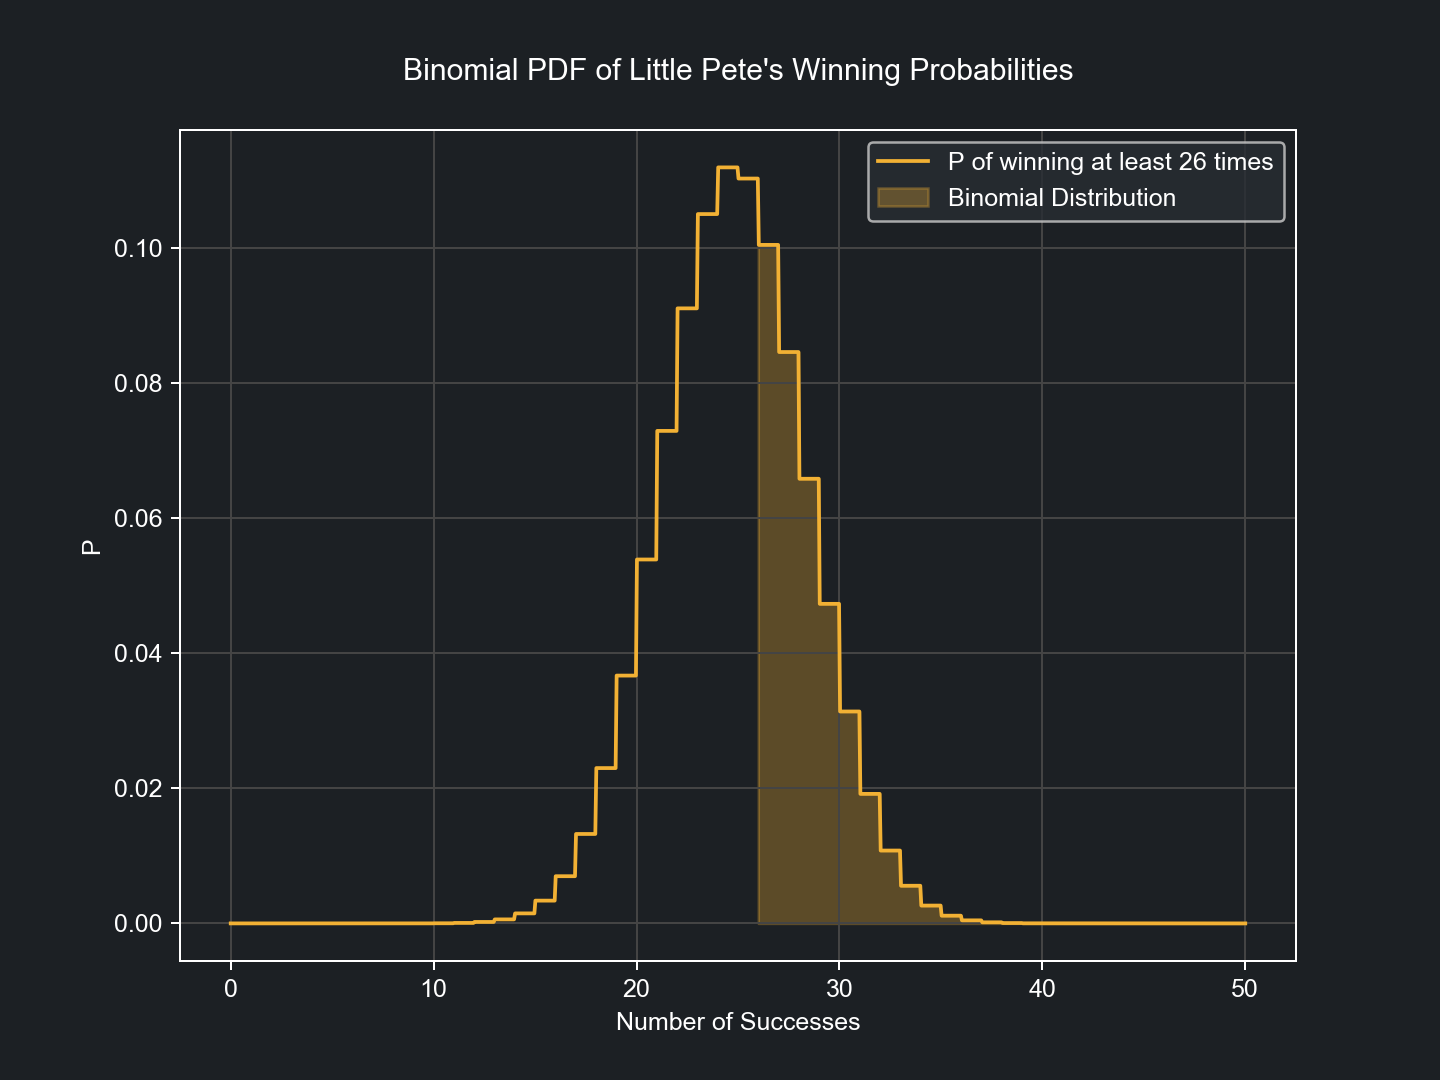
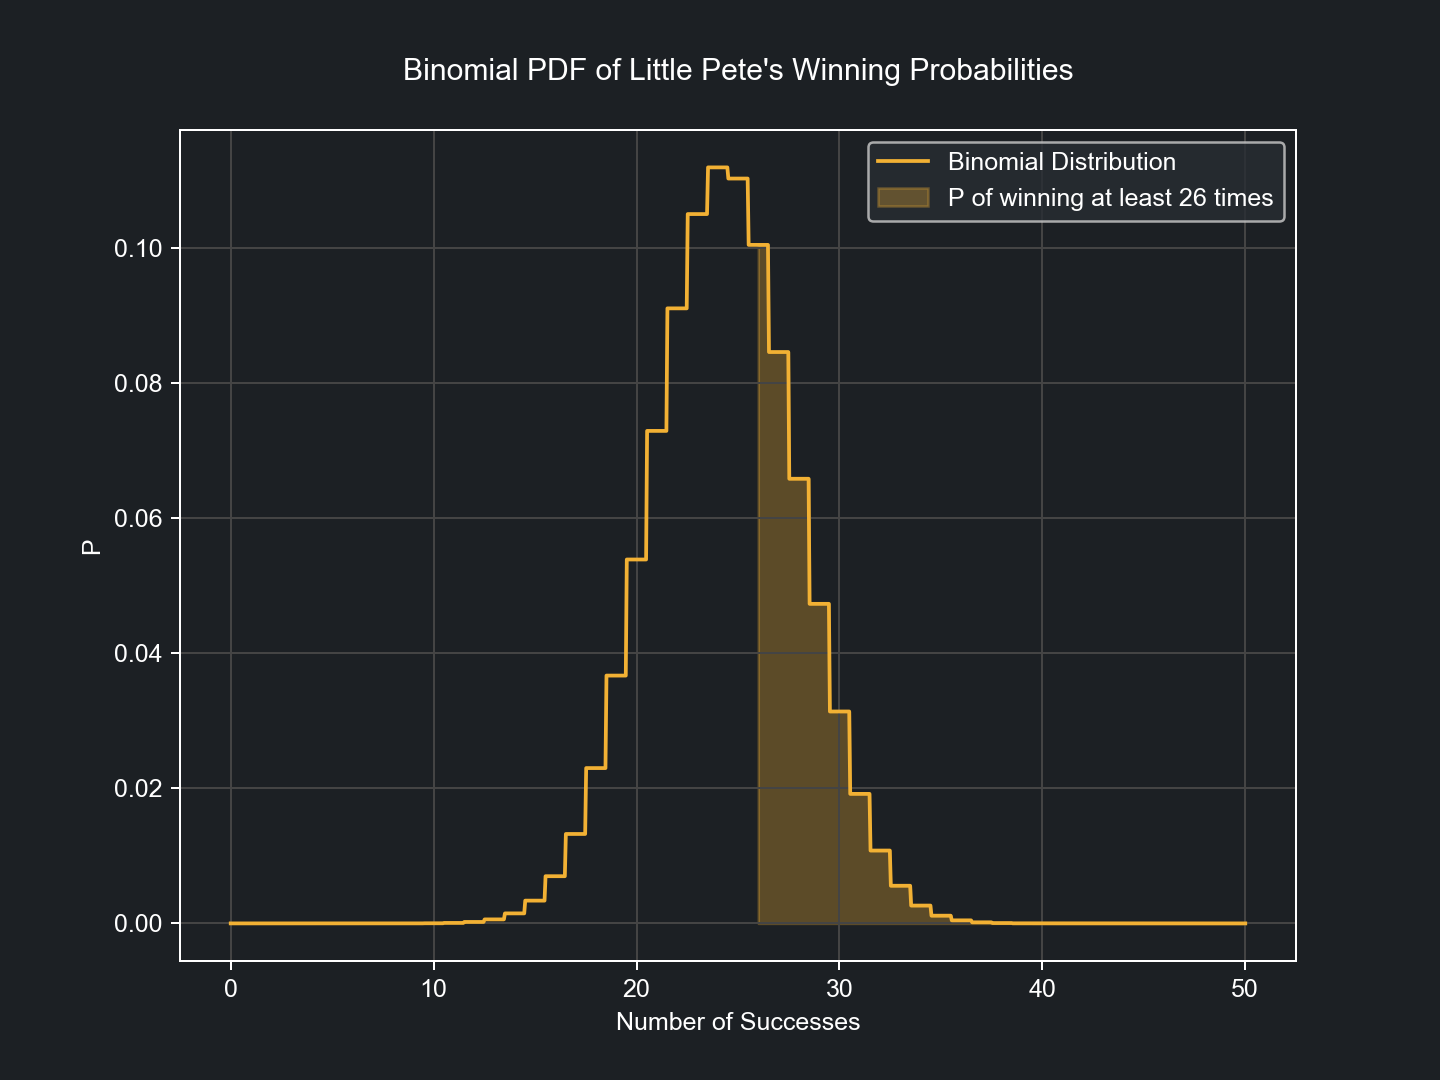
fixed integration

diff --git a/distributions_probability.py b/distributions_probability.py
@@ -1,5 +1,4 @@
 import numpy as np
-import numpy as np
 import matplotlib as mpl
 import matplotlib.pyplot as plt
 from iminuit import Minuit
@@ -36,22 +35,22 @@ p = 18/37
 x = np.linspace(xmin, xmax, 1000)
 y = func_binomial_pmf(x, n, p)
 
-# plotify.plot(
-#   x=x,
-#   y=y,
-#   title="Binomial PDF of Little Pete's Winning Probabilities",
-#   xlabel="Number of Successes",
-#   ylabel="P",
-#   show_plot=False,
-#   save=False
-# )
+plotify.plot(
+  x=x,
+  y=y,
+  title="Binomial PDF of Little Pete's Winning Probabilities",
+  xlabel="Number of Successes",
+  ylabel="P",
+  show_plot=False,
+  save=False
+)
 
-# x_from_26 = np.linspace(26, xmax, 1000)
-# y_from_26 = func_binomial_pmf(x_from_26, n, p)
-# plt.fill_between(x_from_26, y_from_26, alpha=0.3, color=plotify.c_orange)
-# plt.legend({'P of winning at least 26 times', 'Binomial Distribution'}, facecolor="#282D33")
-# plt.savefig(('plots/' + 'casino_binomial'), facecolor=plotify.background_color, dpi=180)
-# plt.show()
+x_from_26 = np.linspace(26, xmax, 1000)
+y_from_26 = func_binomial_pmf(x_from_26, n, p)
+plt.fill_between(x_from_26, y_from_26, alpha=0.3, color=plotify.c_orange)
+plt.legend({'P of winning at least 26 times', 'Binomial Distribution'}, facecolor="#282D33")
+plt.savefig(('plots/' + 'casino_binomial'), facecolor=plotify.background_color, dpi=180)
+plt.show()
 
 pete_wins_25 = func_binomial_pmf(25, n, p)
 print(f'pete_wins_25 = {pete_wins_25}')
@@ -110,20 +109,20 @@ I_gaussian = quad(func_gaussian_pdf, 1.25, 2.5, args=(0, 1), epsabs=200)
 gaussian_result = I_gaussian[0] * 2
 print(f'gaussian_result = {gaussian_result}')
 
-# plotify.plot(x,
-#              y,
-#              show_plot=False,
-#              title='Gaussian with values between 1.25 and 2.5 σs aways from the mean',
-#              xlabel="",
-#              ylabel="")
+plotify.plot(x,
+             y,
+             show_plot=False,
+             title='Gaussian with values between 1.25 and 2.5 σs aways from the mean',
+             xlabel="",
+             ylabel="")
 
-# x_fill_1 = np.linspace(-2.5, -1.25, 1000)
-# y_fill_1 = func_gaussian_pdf(x_fill_1, 0, 1)
-# x_fill_2 = np.linspace(1.25, 2.5, 1000)
-# y_fill_2 = func_gaussian_pdf(x_fill_2, 0, 1)
-# plt.fill_between(x_fill_1, y_fill_1, alpha=0.5, color=plotify.c_orange)
-# plt.fill_between(x_fill_2, y_fill_2, alpha=0.5, color=plotify.c_orange)
-# plt.show()
+x_fill_1 = np.linspace(-2.5, -1.25, 1000)
+y_fill_1 = func_gaussian_pdf(x_fill_1, 0, 1)
+x_fill_2 = np.linspace(1.25, 2.5, 1000)
+y_fill_2 = func_gaussian_pdf(x_fill_2, 0, 1)
+plt.fill_between(x_fill_1, y_fill_1, alpha=0.5, color=plotify.c_orange)
+plt.fill_between(x_fill_2, y_fill_2, alpha=0.5, color=plotify.c_orange)
+plt.show()
 
 # ------------------------------------------ #
 # -------------- Exercise 1.3 -------------- #
@@ -137,18 +136,15 @@ def func_poisson_pmf(x, lamb):
     return poisson.pmf(np.floor(x+0.5), lamb)
 
 def integrate_poisson(lamb):
-    upper_bound = 300
     days_list = []
 
-    for x in range(8, upper_bound):
+    for x in range(0, 8):
         n_day_with_x_delays = func_poisson_pmf(x, lamb) * 365
         days_list.append(n_day_with_x_delays)
 
-        if n_day_with_x_delays < 0.00001:
-            break
-
     cumulative_days = sum(days_list)
-    return cumulative_days
+    return 365 - cumulative_days
+
 
 
 def cumulative_days_func(lamb):
@@ -165,10 +161,7 @@ Lambda = res.x
 print(f'res.x = {res.x}')
 
 result = integrate_poisson (Lambda)
-print(f'result = {result}')
-
-# def func_poisson_dist_equation(x, lamb):
-#     return (lamb**x * 2 * math.e ** -lamb) / math.factorial(x)
+print(f'result = {result}') 
 
 x = np.linspace(0, 20, 1000)
 y = func_poisson_pmf(x, Lambda) * 365 # to have the integral equal 365 instead of 1, which will make
